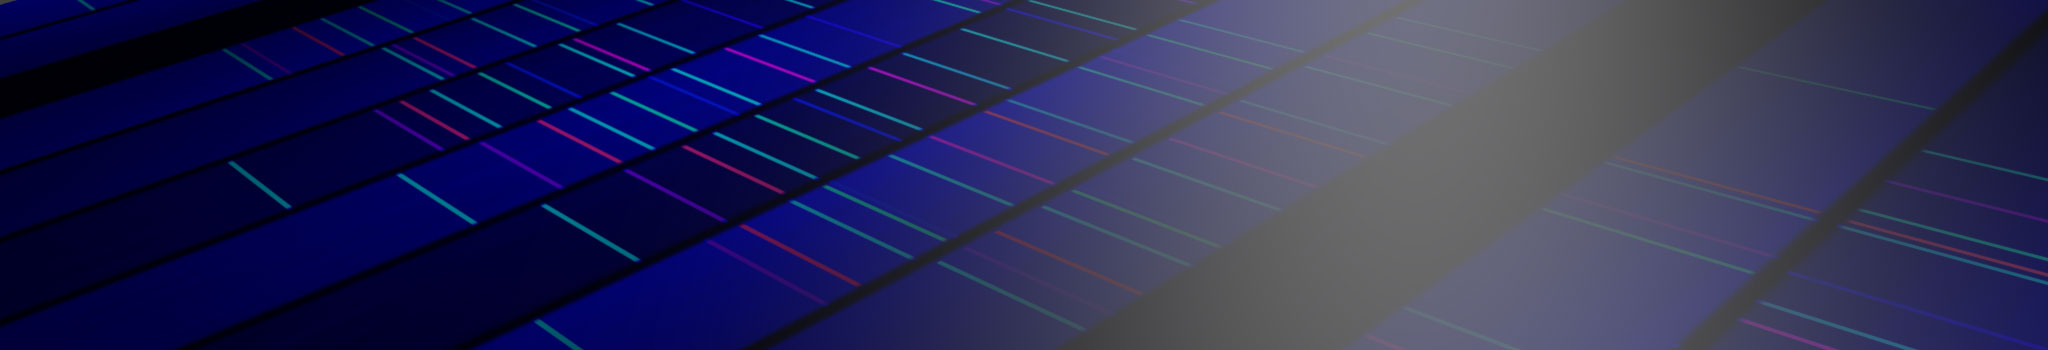
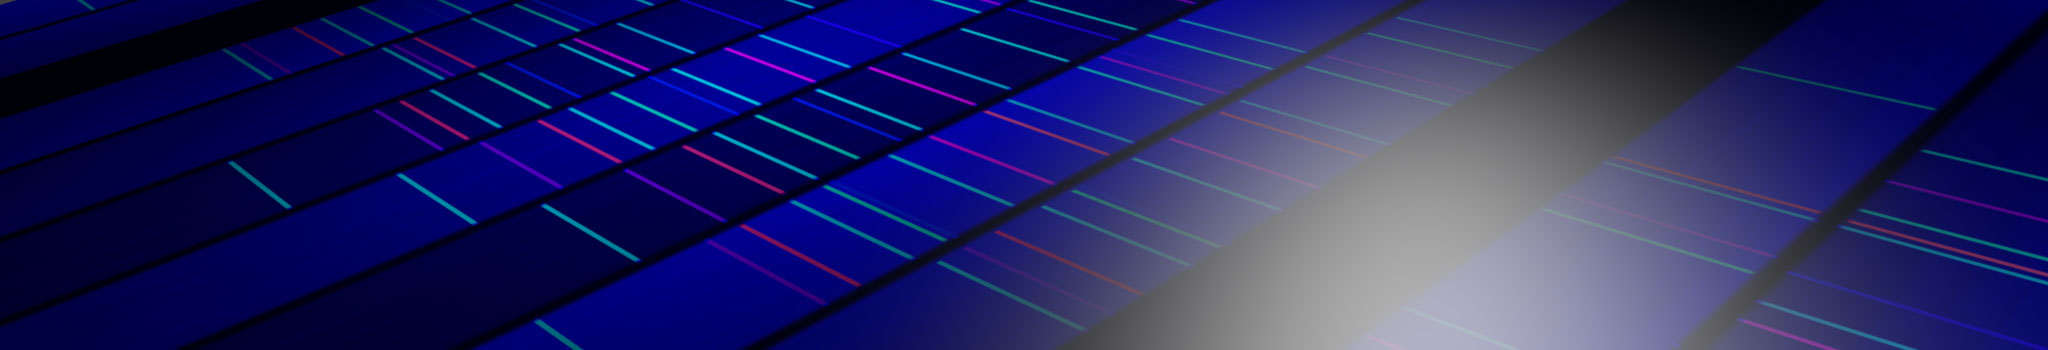
Remove main nav
The logo is now on its own instead of part of a NavBar component, and the Dashboard menu has moved to the user navigation component. Also changed the header background image.

diff --git a/src/clincoded/static/components/app.js b/src/clincoded/static/components/app.js
@@ -20,13 +20,8 @@ var routes = {
 // Site information, including navigation
 var portal = {
     portal_title: 'ClinGen',
-    navMain: [
-        {id: 'dashboard', title: 'Dashboard', url: '/dashboard/'},
-        {id: 'group-curation', title: 'Group Curation', url: '/group-curation/'},
-        {id: 'create-gene-disease', title: 'Create Gene-Disease', url: '/create-gene-disease/'},
-        {id: 'curator', title: 'Curation Central', url: '/curation-central/'}
-    ],
     navUser: [
+        {id: 'dashboard', title: 'Dashboard', url: '/dashboard/'},
         {id: 'account', title: 'Account', url: '/account/'},
         {id: 'loginout', title: 'Login'}
     ]
@@ -162,16 +157,9 @@ var NavbarMain = React.createClass({
     render: function() {
         return (
             <div>
-                <div className="navbar-main-bg"></div>
                 <div className="container">
                     <NavbarUser portal={this.props.portal} session={this.props.session} />
-                    <Navbar styles='navbar-main' brand='ClinGen' brandStyles='portal-brand'>
-                        <Nav styles='navbar-right nav-main' collapse>
-                            {this.props.portal.navMain.map(function(menu) {
-                                return <NavItem key={menu.id} href={menu.url}>{menu.title}</NavItem>;
-                            })}
-                        </Nav>
-                    </Navbar>
+                    <a href="/dashboard" className='navbar-brand'>ClinGen Dashboard</a>
                 </div>
             </div>
         );

diff --git a/src/clincoded/static/scss/clincoded/modules/_navbar.scss b/src/clincoded/static/scss/clincoded/modules/_navbar.scss
@@ -5,6 +5,7 @@
 }
 
 .navbar-brand {
+    display: block;
     @extend .navbar-brand;
     @extend .text-hide;
     padding: 0;
